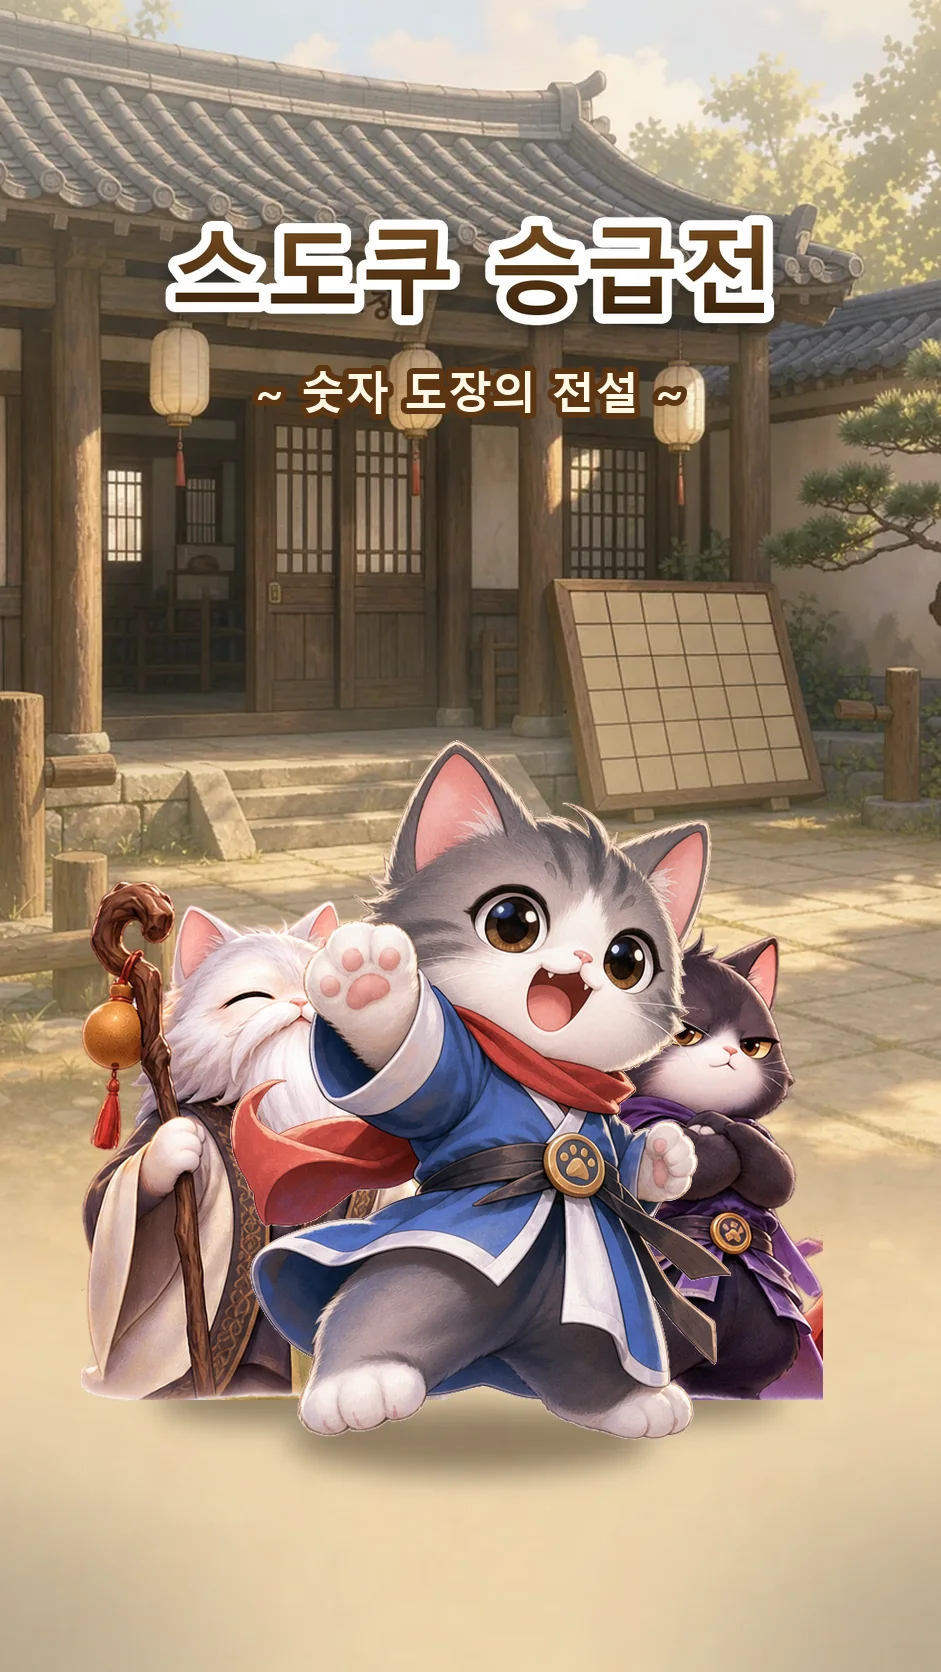
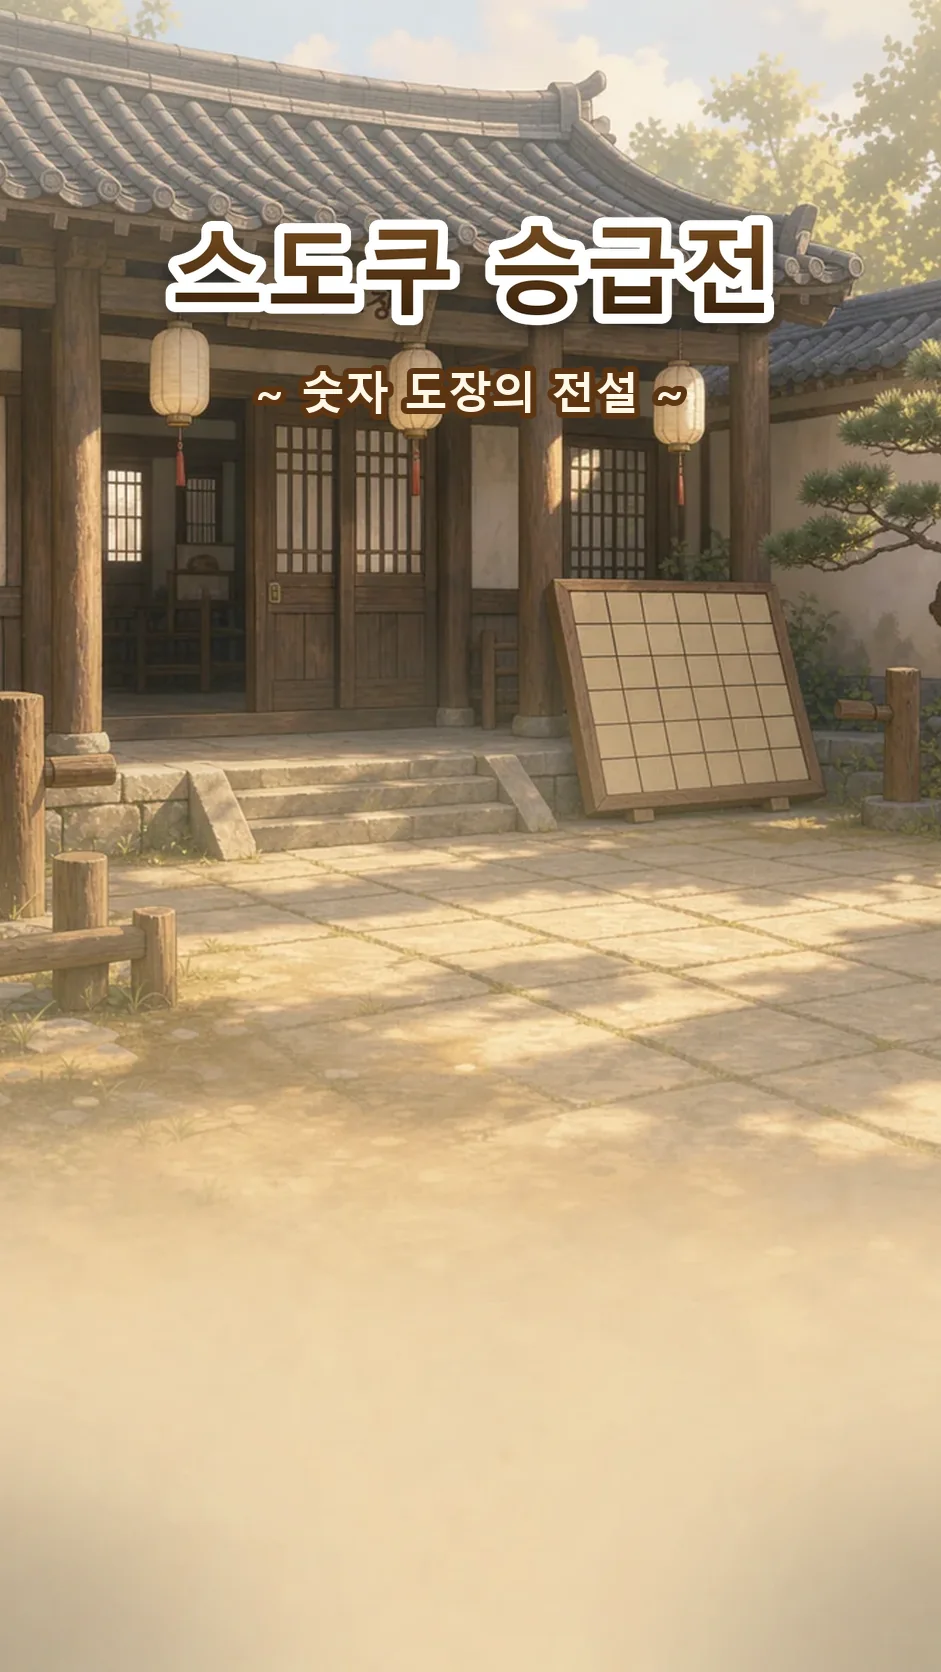
시작 화면 : 인물을 대문 그림에서 떼어 늘 시작 단추 바로 위에
- 휴대폰은 대문 그림 아래가 잘릴 수 있어서, 작은 화면에서 '터치해서 시작하기' 단추가 주인공을 가렸음
- img/gate-cast.webp (주인공 · 사부 · 깜냥, 배경 투명) 를 따로 두고 단추 바로 위에 세움
- 크기는 대문 그림 너비의 79%, 세로가 짧은 화면에서는 제목 · 부제에 닿지 않을 만큼만
- 390×844 · 360×640 · 320×568 · 412×915 · 태블릿 · PC 에서 확인, 버전 v67

Changed region(s): [[0.0616, 0.4354, 0.8937, 0.9019]]

diff --git a/css/screens.css b/css/screens.css
@@ -20,7 +20,8 @@ body:not([data-screen="home"]) .slot-ad { display: none !important; }
 body:not([data-screen="game"]) { padding-bottom: calc(76px + env(safe-area-inset-bottom)); }
 body:not([data-screen="game"]) .page { padding-top: 8px; padding-bottom: 12px; }
 
-/* ---------- 시작 그림 (img/gate-dojo.webp, 941×1672 : 숫자도장 마당 + 제목 + 주인공 · 사부 · 깜냥. tools/make_gate_dojo.py 로 만듦) ----------
+/* ---------- 시작 그림 (img/gate-dojo.webp, 941×1672 : 숫자도장 마당 + 제목. tools/make_gate_dojo.py 로 만듦) ----------
+   인물(주인공 · 사부 · 깜냥)은 따로 img/gate-cast.webp 로 두고 아래 .splash-cast 가 시작 단추 바로 위에 세웁니다.
    휴대폰(세로로 긴 화면) : 그림이 화면을 꽉 채웁니다. 화면 비율이 그림과 다르면 양옆(또는 위아래)이 조금 잘립니다.
    가로로 넓은 화면(태블릿 · PC) : 그림 전체가 보이게 맞추고, 남는 곳은 같은 그림을 흐리게 깔아 채웁니다. */
 .splash {
@@ -28,6 +29,7 @@ body:not([data-screen="game"]) .page { padding-top: 8px; padding-bottom: 12px; }
   background: #e9d9bd;            /* 그림이 뜨기 전 잠깐 보이는 마당 색 (manifest.json 의 background_color 와 같게) */
   overflow: hidden; cursor: pointer;
   transition: opacity 0.35s ease;
+  --start-fs: clamp(18px, 6.2vw, 28px);   /* 시작 단추 글씨 크기 (단추 높이 = 이 값 × 2.5) */
 }
 .splash::before {
   content: ""; position: absolute; inset: -40px;
@@ -48,9 +50,22 @@ body:not([data-screen="game"]) .page { padding-top: 8px; padding-bottom: 12px; }
 }
 .splash.out { opacity: 0; pointer-events: none; }
 /* 앱을 막 켰을 때 화면 크기가 자리 잡을 때까지 그림을 숨겼다가 부드럽게 띄움 (index.html 의 splash 바로 아래 글) */
-.splash.wait::before, .splash.wait .splash-art { opacity: 0; }
-.splash.ready::before, .splash.ready .splash-art { animation: splash-in 0.3s ease-out; }
+.splash.wait::before, .splash.wait .splash-art, .splash.wait .splash-cast { opacity: 0; }
+.splash.ready::before, .splash.ready .splash-art, .splash.ready .splash-cast { animation: splash-in 0.3s ease-out; }
 @keyframes splash-in { from { opacity: 0; } }
+
+/* 인물 (img/gate-cast.webp, 가로/세로 0.984) : 보이는 화면 아래 시작 단추 바로 위에 섭니다.
+   크기 : 대문 그림 너비의 79%. 그림 너비 = 화면 너비와 (화면 전체 높이 × 0.563) 중 큰 쪽 (양옆이 잘리는 휴대폰은 뒤쪽)
+   세로가 짧은 화면 : 제목 · 부제(그림 위쪽 27%)에 닿지 않을 만큼만 크게 */
+.splash-cast {
+  position: absolute; left: 50%; z-index: 1;
+  bottom: calc(6% + env(safe-area-inset-bottom, 0px) + var(--start-fs) * 2.5 - 8px);
+  transform: translateX(-50%);
+  width: auto; max-width: 96vw;
+  height: min(calc(max(78.9vw, 44.4vh) / 0.984), calc(96vw / 0.984), calc(94vh - env(safe-area-inset-bottom, 0px) - var(--start-fs) * 2.5 + 8px - 27vh));
+  height: min(calc(max(78.9vw, 44.4lvh) / 0.984), calc(96vw / 0.984), calc(94dvh - env(safe-area-inset-bottom, 0px) - var(--start-fs) * 2.5 + 8px - 27lvh));
+  pointer-events: none; -webkit-user-drag: none;
+}
 
 /* 시작 단추 : 화면 아래쪽 가운데 (휴대폰 아래 막대에 가리지 않게 safe-area 만큼 띄움) */
 .splash-start {
@@ -60,8 +75,8 @@ body:not([data-screen="game"]) .page { padding-top: 8px; padding-bottom: 12px; }
   border: 3px solid #fff; border-radius: 999px;
   background: linear-gradient(#ffd54a, #f5a623);
   color: #6b3a00; font-family: inherit; font-weight: 900; line-height: 1; letter-spacing: 0.02em;
-  font-size: clamp(18px, 6.2vw, 28px);
-  z-index: 1;
+  font-size: var(--start-fs);
+  z-index: 2;
   text-shadow: 0 1px 0 rgba(255, 255, 255, 0.6);
   box-shadow: 0 6px 0 #c97a12, 0 10px 22px rgba(60, 30, 0, 0.35);
   cursor: pointer;
@@ -69,7 +84,11 @@ body:not([data-screen="game"]) .page { padding-top: 8px; padding-bottom: 12px; }
 }
 @media (min-aspect-ratio: 2 / 3) {
   /* 가로로 넓은 화면 : 단추를 가운데 그림 너비(화면 높이 × 941/1672)에 맞춤 */
-  .splash-start { width: min(72vw, 380px, calc(100dvh * 0.405)); font-size: clamp(18px, calc(100dvh * 0.035), 28px); }
+  .splash { --start-fs: clamp(18px, calc(100dvh * 0.035), 28px); }
+  /* 그림이 화면 높이에 맞춰 가운데에만 있으므로, 인물도 그림 너비(화면 높이 × 0.563)의 79% 로 */
+  .splash-cast { height: min(calc(44.4vh / 0.984), calc(94vh - var(--start-fs) * 2.5 + 8px - 27vh)); }
+  .splash-cast { height: min(calc(44.4dvh / 0.984), calc(94dvh - var(--start-fs) * 2.5 + 8px - 27dvh)); }
+  .splash-start { width: min(72vw, 380px, calc(100dvh * 0.405)); }
 }
 .splash-start:focus-visible { outline: 3px solid #fff3b0; outline-offset: 4px; }
 .splash-start:active { animation: none; transform: scale(0.96); filter: brightness(0.9); }

diff --git a/index.html b/index.html
@@ -13,14 +13,15 @@
   <meta name="mobile-web-app-capable" content="yes">
   <meta name="apple-mobile-web-app-capable" content="yes">
   <meta name="apple-mobile-web-app-title" content="스도쿠 승급전">
-  <link rel="stylesheet" href="css/style.css?v=66">
-  <link rel="stylesheet" href="css/skins.css?v=66">
-  <link rel="stylesheet" href="css/screens.css?v=66">
-  <link rel="stylesheet" href="css/about.css?v=66">
-  <link rel="stylesheet" href="css/fx.css?v=66">
-  <link rel="stylesheet" href="css/story.css?v=66">
+  <link rel="stylesheet" href="css/style.css?v=67">
+  <link rel="stylesheet" href="css/skins.css?v=67">
+  <link rel="stylesheet" href="css/screens.css?v=67">
+  <link rel="stylesheet" href="css/about.css?v=67">
+  <link rel="stylesheet" href="css/fx.css?v=67">
+  <link rel="stylesheet" href="css/story.css?v=67">
   <link rel="preload" as="image" href="img/gate-dojo.webp">
-  <link rel="stylesheet" href="css/dark.css?v=66">
+  <link rel="preload" as="image" href="img/gate-cast.webp">
+  <link rel="stylesheet" href="css/dark.css?v=67">
   <!-- 다크 모드와 스킨을 화면이 뜨기 전에 먼저 입힙니다 (밝은 화면이 번쩍이지 않게) -->
   <script>
     (function () {
@@ -46,6 +47,8 @@
   <div class="splash" id="splash">
     <button type="button" class="splash-music music-btn" data-music aria-label="배경 음악"></button>
     <div class="splash-art" id="splash-art" role="img" aria-label="스도쿠 승급전"></div>
+    <!-- 주인공 · 사부 · 깜냥 : 대문 그림과 따로 두어 늘 시작 단추 바로 위에 섬 (css/screens.css 의 .splash-cast) -->
+    <img class="splash-cast" src="img/gate-cast.webp" alt="" width="742" height="754" draggable="false">
     <!-- 시작 단추는 그림이 아니라 보이는 화면 아래쪽에 붙습니다 (휴대폰 아래 막대에 가리지 않게) -->
     <button type="button" class="splash-start" id="splash-start">터치해서 시작하기</button>
   </div>
@@ -933,23 +936,23 @@
 
   <canvas id="confetti" hidden></canvas>
 
-  <script src="js/config.js?v=66"></script>
-  <script src="js/engine.js?v=66"></script>
-  <script src="js/game.js?v=66"></script>
-  <script src="js/progress.js?v=66"></script>
-  <script src="js/settings.js?v=66"></script>
-  <script src="js/skins.js?v=66"></script>
-  <script src="js/sound.js?v=66"></script>
-  <script src="js/music.js?v=66"></script>
-  <script src="js/effects.js?v=66"></script>
-  <script src="js/badges.js?v=66"></script>
-  <script src="js/shop.js?v=66"></script>
-  <script src="js/account.js?v=66"></script>
-  <script src="js/ranking.js?v=66"></script>
-  <script src="js/tutorial.js?v=66"></script>
-  <script src="js/story.js?v=66"></script>
-  <script src="js/hero.js?v=66"></script>
-  <script src="js/remind.js?v=66"></script>
-  <script src="js/ui.js?v=66"></script>
+  <script src="js/config.js?v=67"></script>
+  <script src="js/engine.js?v=67"></script>
+  <script src="js/game.js?v=67"></script>
+  <script src="js/progress.js?v=67"></script>
+  <script src="js/settings.js?v=67"></script>
+  <script src="js/skins.js?v=67"></script>
+  <script src="js/sound.js?v=67"></script>
+  <script src="js/music.js?v=67"></script>
+  <script src="js/effects.js?v=67"></script>
+  <script src="js/badges.js?v=67"></script>
+  <script src="js/shop.js?v=67"></script>
+  <script src="js/account.js?v=67"></script>
+  <script src="js/ranking.js?v=67"></script>
+  <script src="js/tutorial.js?v=67"></script>
+  <script src="js/story.js?v=67"></script>
+  <script src="js/hero.js?v=67"></script>
+  <script src="js/remind.js?v=67"></script>
+  <script src="js/ui.js?v=67"></script>
 </body>
 </html>

diff --git a/js/config.js b/js/config.js
@@ -9,8 +9,8 @@
 
   S.Config = {
     // 화면 오른쪽 위에 작게 보이는 버전 (휴대폰에 새 파일이 들어왔는지 확인용)
-    // 고칠 때마다  python tools/bump_version.py  로 올립니다 (sw.js 의 CACHE, index.html 의 ?v= 도 함께) : sudoku-files-v66 → 'v66'
-    VERSION: 'v66',
+    // 고칠 때마다  python tools/bump_version.py  로 올립니다 (sw.js 의 CACHE, index.html 의 ?v= 도 함께) : sudoku-files-v67 → 'v67'
+    VERSION: 'v67',
 
     FAILS_TO_DEMOTE: 3, // 연속으로 이만큼 실패하면 강등
     MAX_MISTAKES: 3, // 한 판에서 틀릴 수 있는 횟수

diff --git a/sw.js b/sw.js
@@ -10,7 +10,7 @@
  * 새 파일(그림, js, css)을 추가했으면 아래 FILES 목록에도 한 줄 넣어 주세요.
  * 버전을 올릴 때는  python tools/bump_version.py  를 쓰면 CACHE, 화면 버전, index.html 의 ?v= 가 한 번에 바뀝니다.
  */
-var CACHE = 'sudoku-files-v66';
+var CACHE = 'sudoku-files-v67';
 var FILES = [
   './',
   'index.html',
@@ -23,6 +23,7 @@ var FILES = [
   'icons/apple-touch-icon.png',
   'img/skin-wood.jpg',
   'img/gate-dojo.webp',
+  'img/gate-cast.webp',
   'img/home-dojo.webp',
   'img/chars.webp',
   'img/title.webp',

diff --git a/tools/make_gate_dojo.py b/tools/make_gate_dojo.py
@@ -2,7 +2,10 @@
 
 재료 : img/home-dojo.webp (도장 마당), img/title.webp (제목 글씨),
        img/story/hero_v1.png (주인공 원본), img/char_list.png (사부 · 깜냥 원본)
-결과 : img/gate-dojo.webp (941×1672, 예전 대문 img/gate.webp 와 같은 크기라 css 배치는 그대로)
+결과 : img/gate-dojo.webp (941×1672, 예전 대문 img/gate.webp 와 같은 크기라 css 배치는 그대로) : 마당 + 제목
+       img/gate-cast.webp (배경 투명) : 주인공 · 사부 · 깜냥
+       인물은 따로 두고 css 가 "터치해서 시작하기" 단추 바로 위에 세웁니다.
+       (휴대폰은 대문 그림 아래가 잘릴 수 있어서, 그림에 같이 그리면 작은 화면에서 단추가 인물을 가림)
 """
 import os
 import sys
@@ -27,7 +30,7 @@ def fit_h(im, h):
     return im.resize((round(im.width * h / im.height), h), Image.LANCZOS)
 
 
-def shadow(canvas, cx, y, w):
+def shadow(canvas, cx, y, w):  # canvas : W×H 크기
     """발밑 그림자"""
     sh = Image.new('RGBA', (W, H), (0, 0, 0, 0))
     ImageDraw.Draw(sh).ellipse((cx - w / 2, y - w * 0.09, cx + w / 2, y + w * 0.09), fill=(40, 25, 10, 120))
@@ -59,7 +62,8 @@ def main():
         td.line((0, y, W, y), fill=(255, 246, 228, int(110 * (1 - y / 560) ** 1.6)))
     canvas.alpha_composite(top)
 
-    # 3) 인물 : 사부(왼쪽 뒤) · 깜냥(오른쪽 뒤) · 주인공(가운데 앞)
+    # 3) 인물 : 사부(왼쪽 뒤) · 깜냥(오른쪽 뒤) · 주인공(가운데 앞) → 따로 gate-cast.webp 로
+    cast = Image.new('RGBA', (W, H), (0, 0, 0, 0))
     cl = Image.open(p('img', 'char_list.png')).convert('RGBA')
     master = trim(ms.keep_main(cl.crop(ms.SHEET['master_base'])))
     kkam = trim(ms.keep_main(cl.crop(ms.SHEET['kkam_base'])))
@@ -70,12 +74,12 @@ def main():
     m = fit_h(master, 520)
     k = fit_h(kkam, 500)
     hr = fit_h(hero, 700)
-    shadow(canvas, 275, floor - 40, 240)
-    canvas.alpha_composite(m, (275 - m.width // 2 - 10, floor - 40 - m.height))
-    shadow(canvas, W - 270, floor - 40, 220)
-    canvas.alpha_composite(k, (W - 270 - k.width // 2 + 10, floor - 40 - k.height))
-    shadow(canvas, W // 2, floor, 360)
-    canvas.alpha_composite(hr, (W // 2 - hr.width // 2 + 10, floor - hr.height))
+    shadow(cast, 275, floor - 40, 240)
+    cast.alpha_composite(m, (275 - m.width // 2 - 10, floor - 40 - m.height))
+    shadow(cast, W - 270, floor - 40, 220)
+    cast.alpha_composite(k, (W - 270 - k.width // 2 + 10, floor - 40 - k.height))
+    shadow(cast, W // 2, floor, 360)
+    cast.alpha_composite(hr, (W // 2 - hr.width // 2 + 10, floor - hr.height))
 
     # 4) 제목 + 부제
     title = Image.open(p('img', 'title.webp')).convert('RGBA')
@@ -92,6 +96,9 @@ def main():
 
     canvas.convert('RGB').save(p('img', 'gate-dojo.webp'), 'WEBP', quality=84, method=6)
     print('img/gate-dojo.webp', W, H)
+    cast = cast.crop(cast.split()[3].point(lambda v: 255 if v > 8 else 0).getbbox())
+    cast.save(p('img', 'gate-cast.webp'), 'WEBP', quality=84, method=6)
+    print('img/gate-cast.webp', cast.width, cast.height, '(가로/세로 %.4f)' % (cast.width / cast.height))
 
 
 if __name__ == '__main__':
